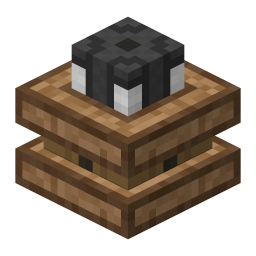
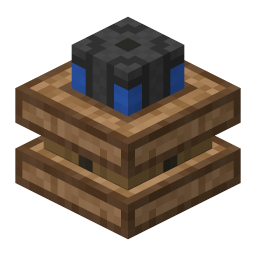
Apply the engines' cool tint from their item definitions
The engine models mark their core face with tintindex 0; the 26.x item definitions
(assets/items/power/*.json) tint it with a constant cool blue [0.2,0.4,0.8]. The renderer
ignored tintindex, so the core rendered untinted gray. Read constant tints from the item
definition keyed by tintindex and multiply them into those faces — giving the engines
their cool idle color. Only the three engines define tints, so nothing else changes.

Changed region(s): [[0.4375, 0.3125, 0.5625, 0.4688], [0.6562, 0.25, 0.75, 0.375], [0.25, 0.25, 0.3438, 0.375]]

diff --git a/tools/render_blocks.py b/tools/render_blocks.py
@@ -253,6 +253,24 @@ def build_pipe_model(core_ref, assets):
             "display": display, "texture_size": [16, 16]}
 
 
+def load_item_tints(item_id, assets):
+    """Read constant tints from a 26.x item definition (assets/items/<id>.json), keyed by
+    tintindex. Engines tint their core face with a cool [0.2,0.4,0.8] blue this way."""
+    path = os.path.join(assets, "items", item_id + ".json")
+    if not os.path.isfile(path):
+        return {}
+    try:
+        data = json.load(open(path, encoding="utf-8"))
+    except (ValueError, OSError):
+        return {}
+    out = {}
+    for i, t in enumerate(data.get("model", {}).get("tints", [])):
+        if str(t.get("type", "")).endswith("constant"):
+            v = t.get("value", [1, 1, 1])
+            out[i] = tuple(max(0, min(255, int(c * 255))) for c in v)
+    return out
+
+
 def resolve_render_model(ref, assets):
     """The model to actually render for a resolved ref (pipes get the core+arm special case)."""
     return build_pipe_model(ref, assets) if is_pipe_core(ref) else load_chain(ref, assets)
@@ -301,7 +319,8 @@ def rot_xyz(p, rx, ry, rz):
 
 # -------------------------------------------------------------------- render
 
-def render(model, assets, size=256, ss=3, alpha_cut=64):
+def render(model, assets, size=256, ss=3, alpha_cut=64, tints=None):
+    tints = tints or {}
     textures = model["textures"]
     tex_cache = {}
 
@@ -343,7 +362,7 @@ def render(model, assets, size=256, ss=3, alpha_cut=64):
                     p = rotate_axis(p, erot["axis"], math.radians(erot["angle"]), erot["origin"])
                 p = rot_xyz((p[0] - 8, p[1] - 8, p[2] - 8), rx, ry, rz)
                 v3.append((p[0], p[1], p[2], uu / 16.0, vv / 16.0))
-            faces.append((v3, tex, SHADE.get(d, 1.0)))
+            faces.append((v3, tex, SHADE.get(d, 1.0), tints.get(face.get("tintindex"))))
 
     if not faces:
         raise ValueError("model produced no drawable faces")
@@ -362,17 +381,17 @@ def render(model, assets, size=256, ss=3, alpha_cut=64):
 
     color = bytearray(S * S * 4)
     zbuf = [-1e9] * (S * S)
-    for v3, tex, sh in faces:
+    for v3, tex, sh, tint in faces:
         scr = [project(v) for v in v3]
         tri = [(0, 1, 2), (0, 2, 3)]
         for a, b, c in tri:
             _raster(color, zbuf, S, scr[a], scr[b], scr[c],
-                    v3[a][3:5], v3[b][3:5], v3[c][3:5], tex, sh, alpha_cut)
+                    v3[a][3:5], v3[b][3:5], v3[c][3:5], tex, sh, alpha_cut, tint)
 
     return _downsample(color, S, size, ss)
 
 
-def _raster(color, zbuf, S, A, B, C, uvA, uvB, uvC, tex, sh, acut):
+def _raster(color, zbuf, S, A, B, C, uvA, uvB, uvC, tex, sh, acut, tint=None):
     tw, th, tpx = tex
     minx = max(0, int(min(A[0], B[0], C[0]))); maxx = min(S - 1, int(math.ceil(max(A[0], B[0], C[0]))))
     miny = max(0, int(min(A[1], B[1], C[1]))); maxy = min(S - 1, int(math.ceil(max(A[1], B[1], C[1]))))
@@ -401,8 +420,14 @@ def _raster(color, zbuf, S, A, B, C, uvA, uvB, uvC, tex, sh, acut):
                 continue
             zbuf[idx] = depth
             o = idx * 4
-            color[o] = int(tpx[t] * sh); color[o + 1] = int(tpx[t + 1] * sh)
-            color[o + 2] = int(tpx[t + 2] * sh); color[o + 3] = a
+            if tint:
+                color[o] = int(tpx[t] * sh * tint[0] / 255)
+                color[o + 1] = int(tpx[t + 1] * sh * tint[1] / 255)
+                color[o + 2] = int(tpx[t + 2] * sh * tint[2] / 255)
+            else:
+                color[o] = int(tpx[t] * sh); color[o + 1] = int(tpx[t + 1] * sh)
+                color[o + 2] = int(tpx[t + 2] * sh)
+            color[o + 3] = a
 
 
 def _downsample(color, S, size, ss):
@@ -470,7 +495,8 @@ def batch(assets, out_dir, wiki_dir, size, ss, dry):
             failed.append((item_id, "no model")); continue
         try:
             if not dry:
-                px = render(resolve_render_model(ref, assets), assets, size, ss)
+                px = render(resolve_render_model(ref, assets), assets, size, ss,
+                            tints=load_item_tints(item_id, assets))
                 encode_png(os.path.join(out_dir, f"Grid {wiki_name}.png"), size, size, px)
             done.append(wiki_name)
             print(f"  {'(dry) ' if dry else ''}Grid {wiki_name}.png   <- {ref}")
@@ -514,7 +540,8 @@ def main():
         sys.exit(f"no geometry resolved for {args.model}")
     if args.rot:
         model.setdefault("display", {}).setdefault("gui", {})["rotation"] = [float(a) for a in args.rot.split(",")]
-    px = render(model, args.assets, args.size, args.ss)
+    item_id = args.model[len("item/"):] if args.model.startswith("item/") else args.model
+    px = render(model, args.assets, args.size, args.ss, tints=load_item_tints(item_id, args.assets))
     encode_png(args.out, args.size, args.size, px)
     print(f"wrote {args.out} ({args.size}px, ss={args.ss}, {len(model['elements'])} elements)")
 
